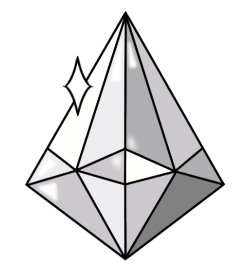
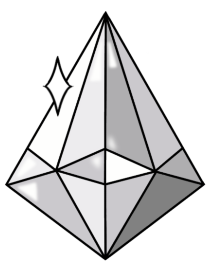
Created SliderBody component, and cropped images. Added enums instead of sliderOptions

Changed region(s): [[0.0284, 0.03, 0.9668, 0.9888]]

diff --git a/pages/QuestionPage.tsx b/pages/QuestionPage.tsx
@@ -1,11 +1,11 @@
 // REACT HOOKS & COMPONENTS
 import { useState, memo, useEffect } from "react"
-import { Text, Alert, ScrollView, View } from "react-native"
+import { Text, Alert, View } from "react-native"
 import { Button } from "react-native-paper"
 import * as Haptics from "expo-haptics"
 
-// CUSTOM COMPONENTS
-import CustomSlider from "../components/CustomSlider"
+// COMPONENTS
+import { SliderBody } from "./../components/SliderBody"
 
 // BACKEND FUNCTIONS
 import {
@@ -39,6 +39,24 @@ import { setCurrentWeek, setWeeks } from "../reducers/weekSlice"
 // STYLE
 import styles from "../styles"
 
+export enum Occurrences {
+  WEEKS = "weeks",
+  MONTHS = "months",
+  YEARS = "years"
+}
+
+export enum Frequency {
+  MONTHLY = "monthly",
+  WEEKLY = "weekly",
+  DAILY = "daily"
+}
+
+export enum Impact {
+  SLIGHT = "slight",
+  NOTICEABLE = "noticeable",
+  SIGNIFICANT = "significant"
+}
+
 function QuestionPage({ navigation }: any) {
 	const dispatch = useAppDispatch()
 	const habit = useAppSelector(selectHabit).habit
@@ -49,20 +67,15 @@ function QuestionPage({ navigation }: any) {
 
 	// SLIDER STATES
 	const [goal, setGoal] = useState(0)
-	const [firstOccurrence, setFirstOccurrence] = useState("weeks")
-	const [frequency, setFrequency] = useState("monthly")
-	const [impact, setImpact] = useState("slight")
-
-	// SLIDER OPTIONS
-	const occurrenceOptions = ["weeks", "months", "years"]
-	const frequencyOptions = ["monthly", "weekly", "daily"]
-	const impactOptions = ["slight", "noticable", "significant"]
+	const [firstOccurrence, setFirstOccurrence] = useState(Occurrences.WEEKS)
+	const [frequency, setFrequency] = useState(Frequency.MONTHLY)
+	const [impact, setImpact] = useState(Impact.SLIGHT)
 
 	// CALCULATED GEM
 	const gemVal =
-		occurrenceOptions.indexOf(firstOccurrence) +
-		frequencyOptions.indexOf(frequency) +
-		impactOptions.indexOf(impact) * 2
+		Object.values(Occurrences).indexOf(firstOccurrence) +
+		Object.values(Frequency).indexOf(frequency) +
+		Object.values(Impact).indexOf(impact) * 2
 
 	// Update gem val based on slider values
 	const updatedGemHabit = (prev: Habit) => {
@@ -96,18 +109,18 @@ function QuestionPage({ navigation }: any) {
 		Haptics.impactAsync(Haptics.ImpactFeedbackStyle.Light)
 	}, [goal])
 
-	function changeOccurrence(value: number) {
-		setFirstOccurrence(occurrenceOptions[value] || "weeks")
+  function changeOccurrence(value: number) {
+		setFirstOccurrence(Object.values(Occurrences)[value] || Occurrences.WEEKS)
 		dispatch(setInactiveSlider())
 	}
 
 	function changeFrequency(value: number) {
-		setFrequency(frequencyOptions[value] || "monthly")
+		setFrequency(Object.values(Frequency)[value] || Frequency.MONTHLY)
 		dispatch(setInactiveSlider())
 	}
 
 	function changeImpact(value: number) {
-		setImpact(impactOptions[value] || "slight")
+		setImpact(Object.values(Impact)[value] || Impact.SLIGHT)
 		dispatch(setInactiveSlider())
 	}
 
@@ -161,53 +174,17 @@ function QuestionPage({ navigation }: any) {
 		<View style={[styles.questionContainer, styles.safeArea]}>
 			<Text style={styles.titleText}>A few questions...</Text>
 
-			<ScrollView
-				style={[{ flex: 1 }]}
-				alwaysBounceVertical={false}
-				centerContent={true}
-			>
-				<Text style={styles.bodyText}>
-					First occurrence was{" "}
-					<Text style={styles.questionValue}>{firstOccurrence}</Text> ago
-				</Text>
-				<CustomSlider
-					onValueChange={changeOccurrence}
-					maximumValue={2}
-					trackMarks={[0, 1, 2]}
-				/>
-
-				<Text style={styles.bodyText}>
-					I engage in this habit{" "}
-					<Text style={styles.questionValue}>{frequency}</Text>
-				</Text>
-				<CustomSlider
-					onValueChange={changeFrequency}
-					maximumValue={2}
-					trackMarks={[0, 1, 2]}
-				/>
-
-				<Text style={styles.bodyText}>
-					This habit has a <Text style={styles.questionValue}>{impact}</Text>{" "}
-					impact
-				</Text>
-				<CustomSlider
-					onValueChange={changeImpact}
-					maximumValue={2}
-					trackMarks={[0, 1, 2]}
-				/>
-
-				<Text style={styles.bodyText}>
-					My first goal is <Text style={styles.questionValue}>{goal}</Text>{" "}
-					times a week
-				</Text>
-        
-				<CustomSlider
-					onValueChange={setGoal}
-					maximumValue={100}
-					trackMarks={[0, 100]}
-					onSlidingComplete={slidersComplete}
-				/>
-			</ScrollView>
+			<SliderBody
+				firstOccurrence={firstOccurrence}
+				changeOccurrence={changeOccurrence}
+				frequency={frequency}
+				changeFrequency={changeFrequency}
+				impact={impact}
+				changeImpact={changeImpact}
+				goal={goal}
+				setGoal={setGoal}
+				slidersComplete={slidersComplete}
+			/>
 
 			<Button
 				mode="elevated"

diff --git a/components/SliderBody.tsx b/components/SliderBody.tsx
@@ -1,0 +1,73 @@
+// REACT
+import React from "react"
+import { ScrollView, Text } from "react-native"
+import { Frequency, Impact, Occurrences } from "../pages/QuestionPage"
+
+// CUSTOM COMPONENTS
+import CustomSlider from "./CustomSlider"
+
+// STYLES
+import styles from "../styles"
+
+interface Props {
+	firstOccurrence: Occurrences
+	changeOccurrence: (value: number) => void
+	frequency: Frequency
+	changeFrequency: (value: number) => void
+	impact: Impact
+	changeImpact: (value: number) => void
+	goal: number
+	setGoal: React.Dispatch<React.SetStateAction<number>>
+	slidersComplete: (value: number) => void
+}
+export function SliderBody(props: Props) {
+	return (
+		<ScrollView
+			style={{ flex: 1 }}
+			alwaysBounceVertical={false}
+			centerContent={true}
+		>
+			<Text style={styles.bodyText}>
+				First occurrence was{" "}
+				<Text style={styles.questionValue}>{props.firstOccurrence}</Text> ago
+			</Text>
+			<CustomSlider
+				onValueChange={props.changeOccurrence}
+				maximumValue={2}
+				trackMarks={[0, 1, 2]}
+			/>
+
+			<Text style={styles.bodyText}>
+				I engage in this habit{" "}
+				<Text style={styles.questionValue}>{props.frequency}</Text>
+			</Text>
+			<CustomSlider
+				onValueChange={props.changeFrequency}
+				maximumValue={2}
+				trackMarks={[0, 1, 2]}
+			/>
+
+			<Text style={styles.bodyText}>
+				This habit has a{" "}
+				<Text style={styles.questionValue}>{props.impact}</Text> impact
+			</Text>
+			<CustomSlider
+				onValueChange={props.changeImpact}
+				maximumValue={2}
+				trackMarks={[0, 1, 2]}
+			/>
+
+			<Text style={styles.bodyText}>
+				My first goal is <Text style={styles.questionValue}>{props.goal}</Text>{" "}
+				times a week
+			</Text>
+
+			<CustomSlider
+				onValueChange={props.setGoal}
+				maximumValue={100}
+				trackMarks={[0, 100]}
+				onSlidingComplete={props.slidersComplete}
+			/>
+		</ScrollView>
+	)
+}
